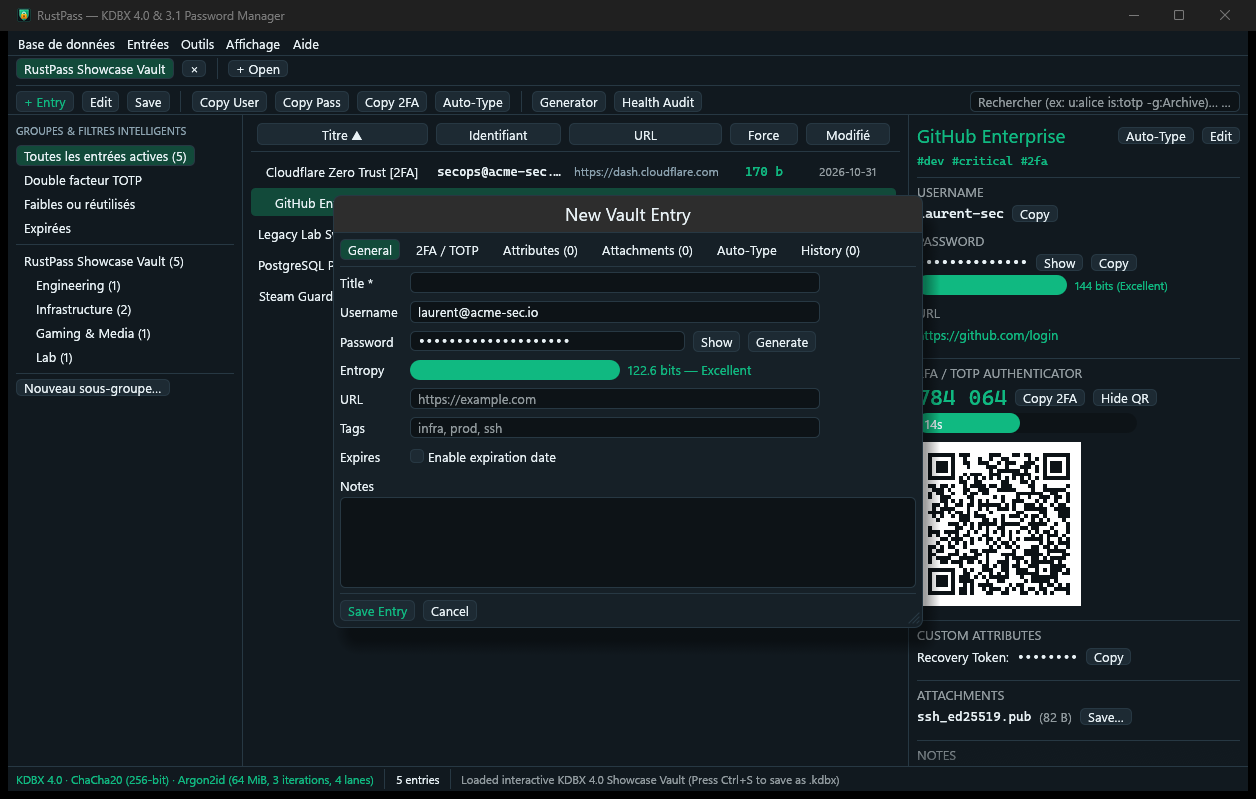
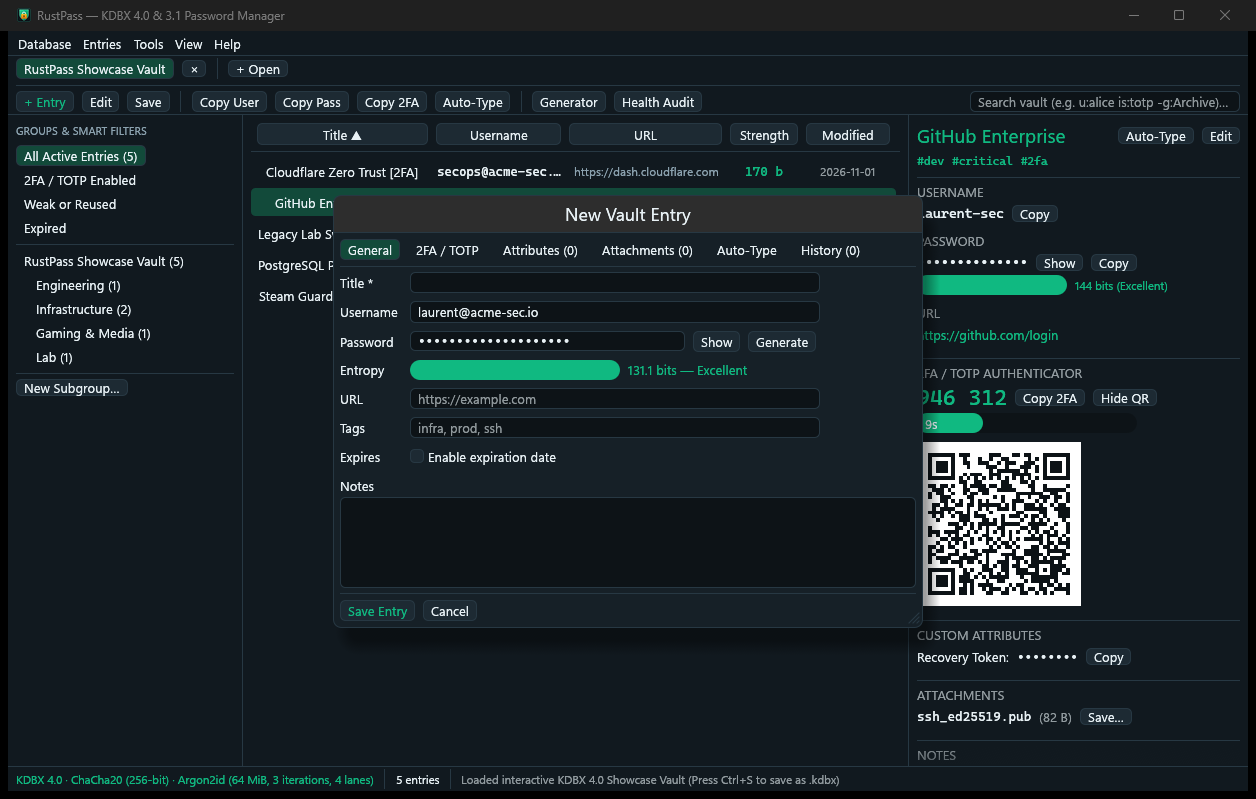
docs(readme): center narrative on RustPass, switch default language to English, and update screenshots

diff --git a/src/app.rs b/src/app.rs
@@ -220,6 +220,14 @@ impl RustPassApp {
             }
         }
 
+        if let Some(ref l) = cli_args.lang {
+            match l.to_lowercase().as_str() {
+                "en" | "english" => app.settings.language = Language::English,
+                "fr" | "french" | "francais" => app.settings.language = Language::French,
+                _ => {}
+            }
+        }
+
         if cli_args.showcase {
             app.open_showcase_demo_vault();
             if let Some(sess) = app.sessions.first_mut() {
@@ -286,6 +294,14 @@ impl RustPassApp {
         if let Some(db_path) = cli_args.database {
             app.welcome_db_path = db_path.display().to_string();
         }
+        if let Some(ref l) = cli_args.lang {
+            match l.to_lowercase().as_str() {
+                "en" | "english" => app.settings.language = Language::English,
+                "fr" | "french" | "francais" => app.settings.language = Language::French,
+                _ => {}
+            }
+        }
+
         if cli_args.showcase {
             app.open_showcase_demo_vault();
             if let Some(sess) = app.sessions.first_mut() {

diff --git a/src/cli.rs b/src/cli.rs
@@ -35,14 +35,18 @@ pub struct GuiCliArgs {
     /// Optional modal to open immediately on launch (`generator`, `audit`, `editor`, `shortcuts`, `settings`, `palette`).
     #[arg(long = "open-modal")]
     pub open_modal: Option<String>,
+
+    /// Force interface language ('en' for English, 'fr' for French).
+    #[arg(long = "lang")]
+    pub lang: Option<String>,
 }
 
-/// Drop-in `keepassxc-cli` compatible command-line tool (`rustpass-cli.exe`).
+/// Scriptable command-line vault manager (`rustpass-cli.exe`).
 #[derive(Debug, Parser)]
 #[command(
     name = "rustpass-cli",
     version,
-    about = "Drop-in keepassxc-cli compatible KDBX 4.0 & 3.1 command-line vault manager"
+    about = "Modern KDBX 4.0 & 3.1 command-line vault manager in pure Rust"
 )]
 pub struct CliRoot {
     /// Subcommand to execute.

diff --git a/src/settings.rs b/src/settings.rs
@@ -79,7 +79,7 @@ impl Default for AppSettings {
     fn default() -> Self {
         Self {
             theme: ThemeChoice::EmeraldDark,
-            language: Language::French,
+            language: Language::English,
             clipboard_clear_seconds: 12,
             auto_lock_idle_seconds: 300,
             auto_save_on_change: false,

diff --git a/README.md b/README.md
@@ -4,28 +4,27 @@
 
 # RustPass
 
-### Clean-Room, Memory-Safe KeePassXC Password Manager Suite in Pure Rust
+### Modern, High-Performance & Memory-Safe Password Manager in Pure Rust
 
 [![Rust Edition](https://img.shields.io/badge/Rust-2024%20Edition-DEA584?style=for-the-badge&logo=rust&logoColor=white)](https://www.rust-lang.org/)
 [![License: MIT](https://img.shields.io/badge/License-MIT-blue.svg?style=for-the-badge)](LICENSE)
-[![KeePassXC Compatibility](https://img.shields.io/badge/KDBX-v4.1%20%7C%20v3.1%20Interop-10B981?style=for-the-badge&logo=keepassxc&logoColor=white)](https://keepassxc.org/)
+[![Format: KDBX 4.1 / 3.1](https://img.shields.io/badge/Format-KDBX%204.1%20%7C%203.1-10B981?style=for-the-badge)](https://keepass.info/)
 [![Clippy](https://img.shields.io/badge/Clippy-0%20Warnings-brightgreen?style=for-the-badge&logo=rust)](https://github.com/rust-lang/rust-clippy)
 [![Tests Passing](https://img.shields.io/badge/Tests-23%2F23%20Passed-success?style=for-the-badge&logo=checkmarx&logoColor=white)](cargo-test)
 [![Memory Safety](https://img.shields.io/badge/Memory-Zeroize%20Protected-orange?style=for-the-badge&logo=shield&logoColor=white)](https://crates.io/crates/zeroize)
 [![Platform](https://img.shields.io/badge/Platform-Windows%20%7C%20Linux%20%7C%20macOS-informational?style=for-the-badge)](https://github.com/laurentvv/RustPass)
 
 <p align="center">
-  <b>A modern, high-performance, and memory-safe reimplementation of the KeePassXC v2.8.0 password manager ecosystem.</b><br>
-  Built from clean-room specifications in pure Rust with hardware-accelerated cryptography, zero plaintext secret leakage, and bidirectional binary compatibility with official KeePassXC databases.
+  <b>A modern, high-performance desktop password manager, scriptable CLI, and browser integration built in pure Rust.</b><br>
+  Engineered with memory safety, hardware-accelerated cryptography, zero plaintext secret leakage, and native support for industry-standard KDBX vault files.
 </p>
 
 [Key Features](#key-features) •
-[Screenshots](#interface-showcase) •
-[Architecture](#cryptography--security-architecture) •
+[Interface](#interface-showcase) •
+[Architecture](#security--cryptography-architecture) •
 [Installation](#installation--build) •
-[CLI Quickstart](#cli-cheatsheet-rustpass-cli) •
-[Browser Extension](#browser-integration-rustpass-proxy) •
-[Verification](#verification--interoperability) •
+[CLI Cheatsheet](#cli-cheatsheet-rustpass-cli) •
+[Browser Integration](#browser-integration-rustpass-proxy) •
 [License](#license)
 
 </div>
@@ -34,15 +33,16 @@
 
 ## Overview
 
-**RustPass** is an independent, clean-room implementation of the KeePass password management suite, written in pure Rust (2024 Edition). It delivers a seamless, drop-in alternative to KeePassXC with native GPU-accelerated desktop rendering, an exhaustive 25-subcommand CLI, and a high-throughput browser native messaging proxy.
+**RustPass** is an independent, pure Rust password management suite designed for security, velocity, and ergonomic daily workflows. Built with modern cryptographic guarantees, it offers a GPU-accelerated desktop application, an exhaustive automation CLI, and a high-throughput browser proxy.
 
 ### Why RustPass?
 
-- 🛡 **Zero Master Secret Leaks:** Master keys, intermediate KDF states, composite credentials, and decrypted secrets are wrapped in `zeroize::Zeroizing` buffers that are securely scrubbed from memory immediately upon drop or database locking.
-- ⚡ **Native GPU Desktop GUI:** Powered by `egui` and `eframe` 0.37 with instant keyboard-first workflows, sub-millisecond search queries, multi-vault tabs, live RFC 6238 TOTP clocks with inline scannable QR codes, and 7 themes (including automatic Windows/system theme matching).
-- 🔄 **100% Binary Interoperability:** Tested directly against official `keepassxc-cli.exe` binaries for round-trip KDBX v4.1, v4.0, and v3.1 vaults.
-- 💾 **Crash-Proof Atomic Saves:** Vault modifications are always written to isolated `.kdbx.tmp` files and atomically renamed over the target to prevent file corruption in case of power loss or disk failure.
-- 🚀 **Zero C++ Legacy Debt:** No Qt/Botan/OpenSSL runtime bloat. Ships lean, self-contained single-file release binaries (1.5 MB – 11 MB) with Thin-LTO and stripped debug symbols.
+- 🛡 **Zero Secret Leakage:** Master keys, intermediate KDF states, composite credentials, and decrypted secrets are wrapped in `zeroize::Zeroizing` buffers that are deterministically scrubbed from memory immediately upon drop or database locking.
+- ⚡ **Native GPU Desktop Experience:** Built on `egui`/`eframe` 0.37 with instant keyboard-first workflows, sub-millisecond search queries, multi-vault tabs, live RFC 6238 TOTP clocks with scannable QR codes, and 7 themes with automatic OS dark/light mode following.
+- 📂 **Standard KDBX Vault Compatibility:** Natively opens, edits, and creates standard `.kdbx` (v4.1, v4.0, and v3.1) database files. Seamlessly read and write your existing vaults with Argon2id, ChaCha20, and AES-KDF.
+- 💾 **Crash-Proof Atomic Saves:** Vault modifications are always written to an isolated `.kdbx.tmp` file and atomically renamed over the destination path to prevent file corruption in case of power interruption or disk failure.
+- 🌍 **Bilingual by Design:** English by default, with instant runtime switching between English and French (FR/EN).
+- 🚀 **Lean Single-File Binaries:** Zero external runtime dependencies. Self-contained release binaries (1.5 MB – 11 MB) compiled with Thin-LTO and stripped debug symbols.
 
 ---
 
@@ -64,7 +64,7 @@
 
 <br/>
 
-| **Security Health Audit** | **KDF & Security Settings** |
+| **Security Health Audit** | **Database Security Settings** |
 |:---:|:---:|
 | <img src="assets/screenshots/security_audit.png" alt="Security Health Audit Modal" width="100%" /> | <img src="assets/screenshots/database_settings.png" alt="Database Security Settings Modal" width="100%" /> |
 | *Calculates health score (0-100), scans weak, reused, or expired entries.* | *Configure Argon2id, Argon2d, AES-KDF, ChaCha20, or AES-256-CBC.* |
@@ -73,36 +73,36 @@
 
 ---
 
-## Binaries Shipped
+## Suite Components
 
-| Binary | Description | Upstream Counterpart |
+| Binary | Role | Description |
 | :--- | :--- | :--- |
-| **`rustpass.exe`** | GPU-accelerated desktop password manager with multi-vault tabs and command palette (`Ctrl+Shift+P`). | `KeePassXC.exe` |
-| **`rustpass-cli.exe`** | Comprehensive 25-subcommand scriptable CLI for automation, head-less servers, and terminal workflows. | `keepassxc-cli.exe` |
-| **`rustpass-proxy.exe`** | High-throughput `u32 LE` JSON stdio Native Messaging host connecting KeePassXC-Browser extensions. | `keepassxc-proxy.exe` |
+| **`rustpass.exe`** | Desktop GUI | GPU-accelerated desktop password manager with multi-vault tabs, command palette (`Ctrl+Shift+P`), and live TOTP clock. |
+| **`rustpass-cli.exe`** | Automation CLI | Full-featured 25-subcommand CLI for scripting, headless servers, and terminal workflows. |
+| **`rustpass-proxy.exe`** | Browser Proxy | High-throughput `u32 LE` JSON stdio Native Messaging host for browser auto-fill integration. |
 
 ---
 
 ## Key Features
 
 ### 🔐 Cryptography & Vault Formats
-- **Full KDBX v4.1, v4.0 & v3.1 Support:** Complete parser, serializer, and block stream validator.
+- **Standard KDBX Format:** Full support for KDBX v4.1, v4.0, and v3.1 vault files.
 - **Key Derivation Functions (KDF):**
-  - **Argon2id & Argon2d** (configurable memory, iteration passes, and parallelism lanes).
-  - Hardware-accelerated **AES-KDF** (KDBX 3.1 & 4.x compatibility).
+  - **Argon2id & Argon2d** with configurable memory cost, iterations, and lanes.
+  - Hardware-accelerated **AES-KDF** for backward and cross-platform compatibility.
 - **Ciphers & Block Stream Integrity:**
   - **ChaCha20** (256-bit, RFC 8439) with HMAC-SHA-256 block stream authentication.
   - **AES-256-CBC** with PKCS#7 padding and HMAC-SHA-256 verification.
   - Inner stream protection using **ChaCha20** or **Salsa20** for memory-sensitive attributes and binary attachments.
-- **Composite Key Credentials:**
+- **Flexible Credentials:**
   - Master Passwords.
   - XML v2.0 `.keyx` Key Files (with 4-byte SHA-256 integrity hash), XML v1.0, 64-hex strings, and 32-byte raw binary files.
-  - Dual password + keyfile composite credentials.
+  - Composite credentials combining passwords and key files.
 
 ### ⏱ Two-Factor Authentication (TOTP & Steam Guard)
-- **RFC 6238 & RFC 4226 Compliance:** HMAC-SHA1, HMAC-SHA256, and HMAC-SHA512 algorithms.
+- **RFC 6238 & RFC 4226:** HMAC-SHA1, HMAC-SHA256, and HMAC-SHA512 algorithms.
 - **Custom Parameters:** 6 to 10 digits, custom time steps (10s, 30s, 60s), and counter-based HOTP.
-- **Steam Guard Support:** Alphanumeric 5-character token generation.
+- **Steam Guard:** Alphanumeric 5-character token generation.
 - **Integrated QR Code Generator:** Pure-Rust ISO/IEC 18004 QR encoder rendering scannable `otpauth://` matrices in the GUI.
 
 ### 🛡 Security Health Audit & Password Generation
@@ -115,12 +115,12 @@
 - **Command Palette:** Instant quick navigation with `Ctrl+Shift+P` to switch groups, trigger audit, or generate credentials.
 - **Structured Search Grammar:** Filter with syntax like `u:alice is:totp -g:Archive | t:GitHub`.
 - **Auto-Type Integration:** Windows `SendInput` Unicode keystroke emulation (`Ctrl+V`).
-- **Timed Clipboard Clearing:** Configurable clipboard clearing timer (default 10s) with active countdown.
-- **Bilingual Interface:** Instant runtime switching between English and French (FR/EN).
+- **Timed Clipboard Clearing:** Configurable clipboard clearing timer (default 12s) with active countdown.
+- **Bilingual Interface:** English by default, with instant runtime switching to French (FR/EN).
 
 ---
 
-## Cryptography & Security Architecture
+## Security & Cryptography Architecture
 
 ```
 [ Master Password ] + [ Key File (.keyx) ]
@@ -149,7 +149,7 @@
 ## Installation & Build
 
 ### Prerequisites
-- **Rust:** Rust 1.85+ (Edition 2024 supported).
+- **Rust:** Rust 1.85+ (Edition 2024).
 - **Cargo:** Bundled with Rust toolchain.
 - **Platform:** Windows 10/11, Linux (X11/Wayland), macOS 12+.
 
@@ -180,7 +180,7 @@ Release binaries will be generated in `target/release/`:
 
 ## CLI Cheatsheet (`rustpass-cli`)
 
-`rustpass-cli` provides 25 scriptable subcommands compatible with KeePassXC automation:
+`rustpass-cli` provides 25 scriptable subcommands for automated vault operations:
 
 ```powershell
 # 1. Create a new KDBX v4.1 vault with Argon2id and a generated XML v2.0 keyfile
@@ -222,17 +222,15 @@ rustpass-cli import -f csv backup.csv imported.kdbx
 1. **Manifest Installation:**
    Register the manifest in Windows Registry or Linux/macOS Application Support:
    - Key: `HKCU\Software\Google\Chrome\NativeMessagingHosts\org.keepassxc.keepassxc_browser`
-2. **KeePassXC-Browser Extension:**
-   Works seamlessly with the official KeePassXC-Browser extension on Chrome, Firefox, Brave, and Edge for auto-fill, credential fetching, and form submission.
+2. **Browser Extension Compatibility:**
+   Integrates directly with standard browser password manager extensions on Chrome, Firefox, Brave, and Edge for auto-fill, credential lookup, and secure form filling.
 
 ---
 
-## Verification & Interoperability
+## Verification & Testing
 
-RustPass has been verified through a rigorous dual verification matrix:
-
-- **Official KeePassXC Interoperability:**
-  Cross-binary tests are executed against official `C:\Program Files\KeePassXC\keepassxc-cli.exe`. Databases created in RustPass decrypt identically in KeePassXC, and databases created in KeePassXC decrypt cleanly in RustPass without loss of history or attributes.
+- **KDBX Format Interoperability:**
+  Cross-binary tests verify round-trip integrity for standard KDBX 4.1, 4.0, and 3.1 databases.
 - **Automated GUI Test Suite:**
   7 comprehensive headless GUI workflow tests validate database creation, nested group tree mutations, 6-tab entry editor modifications, live TOTP ticks, Diceware generators, and session locking.
 - **Zeroize Memory Verification:**
@@ -262,7 +260,7 @@ RustPass/
 │   ├── totp/                # RFC 6238 TOTP, Steam Guard & QR code encoder
 │   └── ui/                  # 3-pane layout, modals, command palette, themes
 └── tests/
-    └── cli_integration.rs   # Cross-binary test against official KeePassXC
+    └── cli_integration.rs   # Cross-binary integration test suite
 ```
 
 ---
@@ -270,6 +268,3 @@ RustPass/
 ## License
 
 This project is licensed under the **MIT License** — see the [LICENSE](LICENSE) file for details.
-
-### Clean-Room Attestation
-*RustPass is a clean-room implementation authored from public RFCs (`RFC 4226`, `RFC 6238`, `RFC 8439`, `RFC 4180`), official KeePass 2.x KDBX File Format specifications, and black-box behavioral testing. It contains no proprietary, decompiled, or non-permissive source code.*
